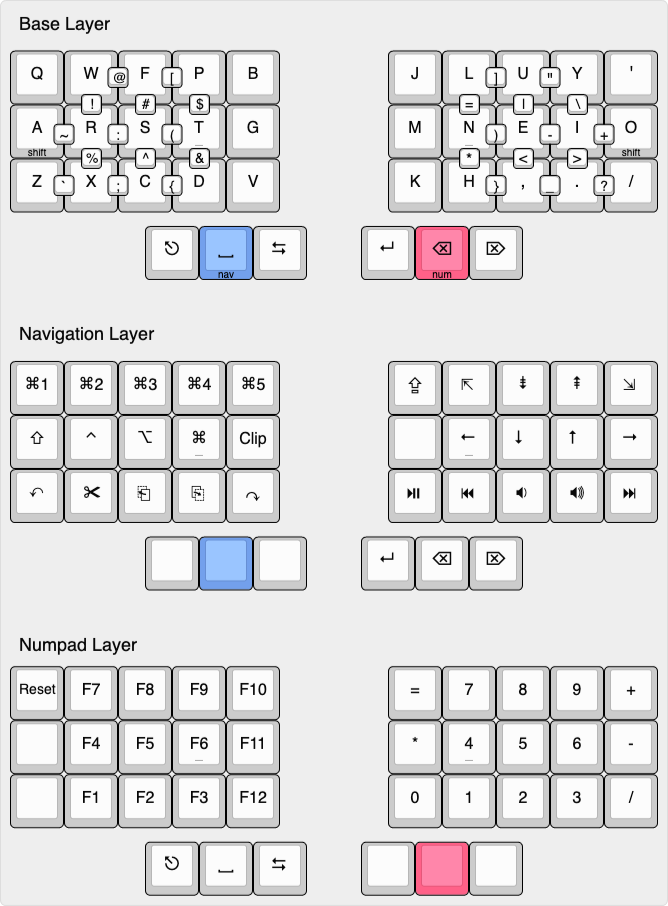
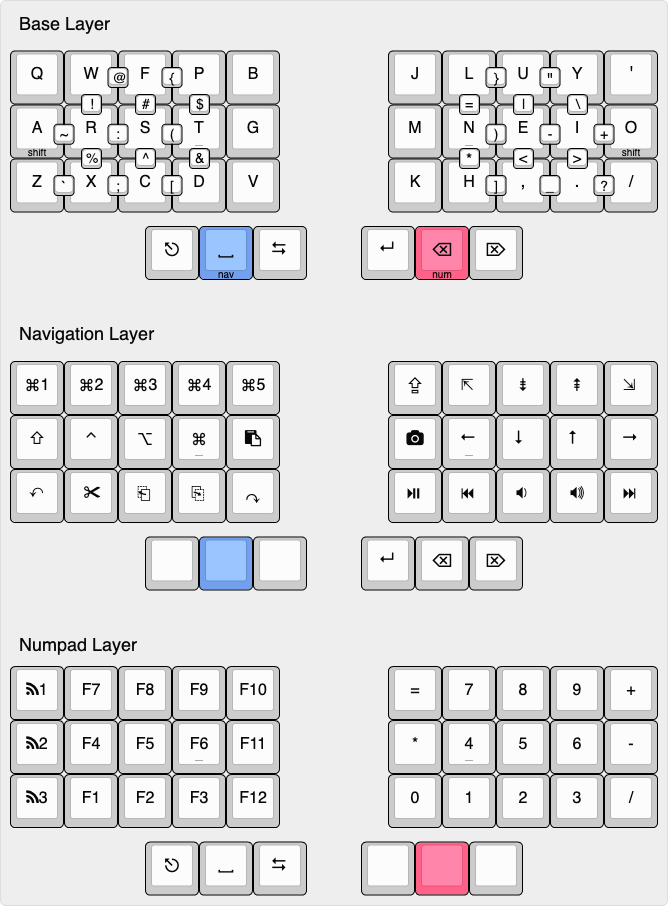
Swap brace/bracket positions, update README

diff --git a/README.md b/README.md
@@ -14,9 +14,9 @@ You can also come join our [ZMK Discord Server](https://zmk.dev/community/discor
 To review features, check out the [feature overview](https://zmk.dev/docs/). ZMK is under active development, and new features are listed with the [enhancement label](https://github.com/zmkfirmware/zmk/issues?q=is%3Aissue+is%3Aopen+label%3Aenhancement) in GitHub. Please feel free to add 👍 to the issue description of any requests to upvote the feature.
 =======
 # 36-key Combo Layout
-A combo-infused keymap for the OLKB Planck rev 6, implemented in QMK.
+Combo-infused keymaps for the OLKB Planck rev 6 and Corne-ish Zen 3x5, implemented in both QMK and ZMK respectively.
 
-![A picture of a split Planck keymap](./keymap.png)
+![A picture of a split keymap](./keymap.png)
 
 [Link to keyboard-layout-editor](http://www.keyboard-layout-editor.com/#/gists/39d751b9dc2e97a37b8e29fe4aa87cc5)
 
@@ -27,8 +27,6 @@ The keymap has the following features:
 * Home-row mods
 * Combos for symbols
 * Only two additional layers!
-
-Layers can be toggled on/off with 3 taps of the corresponding thumb-key.
 
 ## Inspiration
 Ideas for this keymap were drawn from the below resources:
